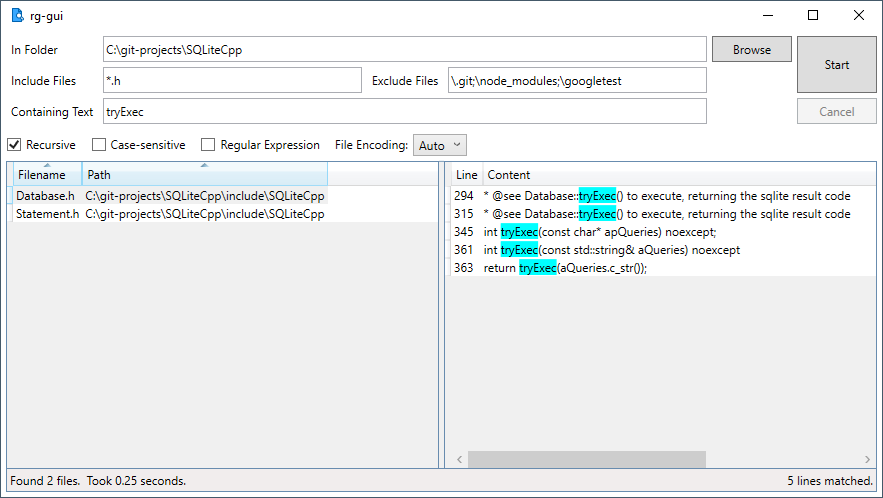
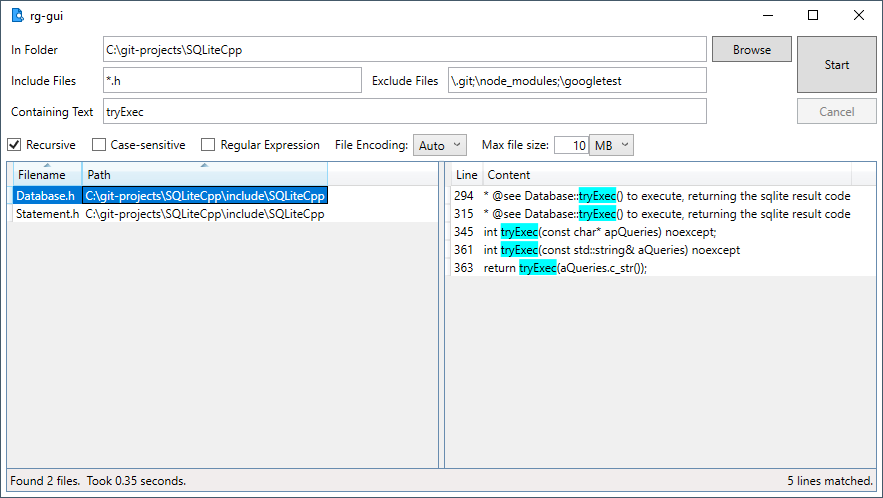
Allow max file size to be specified
Uses RipGrep's --max-filesize parameter to exclude files larger than
specified size.

Changed region(s): [[0.0, 0.3614, 0.3669, 0.4217], [0.5198, 0.9036, 0.8256, 0.9639], [0.5504, 0.2711, 0.7339, 0.3313]]

diff --git a/rg-gui/MainWindow.xaml b/rg-gui/MainWindow.xaml
@@ -51,6 +51,9 @@
                 <ColumnDefinition Width="Auto"/>
                 <ColumnDefinition Width="Auto"/>
                 <ColumnDefinition Width="Auto"/>
+                <ColumnDefinition Width="Auto"/>
+                <ColumnDefinition Width="40"/>
+                <ColumnDefinition Width="Auto"/>
             </Grid.ColumnDefinitions>
             <CheckBox Grid.Row="1" Grid.Column="0" Margin="0,0,0,5" x:Name="chkRecursive" Content="Recursive" VerticalContentAlignment="Center"/>
             <CheckBox Grid.Row="1" Grid.Column="1" Margin="15,0,0,5" x:Name="chkCaseSensitive" Content="Case-sensitive" VerticalContentAlignment="Center"/>
@@ -59,6 +62,15 @@
             <ComboBox Grid.Row="1" Grid.Column="4" Margin="5,0,0,5" x:Name="cmbEncoding" VerticalAlignment="Center">
                 <ComboBoxItem x:Name="Auto" Content="Auto"/>
                 <ComboBoxItem x:Name="GBK" Content="GBK"/>
+            </ComboBox>
+            <TextBlock Grid.Row="1" Grid.Column="5" Margin="15,-2,0,5" Text="Max file size:" VerticalAlignment="Center"/>
+            <TextBox Grid.Row="1" Grid.Column="6" Margin="5,0,0,5" x:Name="txtMaxFileSize" VerticalAlignment="Center" TextAlignment="Right" TextChanged="txtMaxFileSize_TextChanged"/>
+            <ComboBox Grid.Row="1" Grid.Column="7" Margin="0,0,0,5" x:Name="cmbFileSizeUnit" VerticalAlignment="Center" SelectionChanged="cmbFileSizeUnit_SelectionChanged">
+                <ComboBoxItem x:Name="None" Content="(none)"/>
+                <ComboBoxItem x:Name="Bytes" Content="bytes"/>
+                <ComboBoxItem x:Name="Kilobytes" Content="kB"/>
+                <ComboBoxItem x:Name="Megabytes" Content="MB"/>
+                <ComboBoxItem x:Name="Gigabytes" Content="GB"/>
             </ComboBox>
         </Grid>
 

diff --git a/rg-gui/MainWindow.xaml.cs b/rg-gui/MainWindow.xaml.cs
@@ -39,6 +39,9 @@ namespace rg_gui
 
         private const string DEFAULT_FILEENCODING = "Auto";
 
+        private const int DEFAULT_MAXFILESIZE = 0;
+        private const string DEFAULT_MAXFILESIZEUNIT = "None";
+
         private const int DEFAULT_MAXSEARCHTERMS = 10;
 
         private string m_currentInput = string.Empty;
@@ -114,6 +117,17 @@ namespace rg_gui
                 cmbEncoding.SelectedIndex = 0;
             }
 
+            txtMaxFileSize.Text = (int.TryParse(config.AppSettings.Settings["MaxFileSize"].Value, out var maxFileSize) ? maxFileSize : DEFAULT_MAXFILESIZE).ToString();
+            var maxFileSizeUnit = cmbFileSizeUnit.FindName(config.AppSettings.Settings["MaxFileSizeUnit"]?.Value ?? DEFAULT_MAXFILESIZEUNIT);
+            if (maxFileSizeUnit != null)
+            {
+                cmbFileSizeUnit.SelectedItem = maxFileSizeUnit;
+            }
+            else
+            {
+                cmbFileSizeUnit.SelectedIndex = 0;
+            }
+
             m_ripGrepWrapper = new RipGrepWrapper(config.AppSettings.Settings["RipGrepPath"]?.Value ?? throw new Exception("RipGrepPath not set."));
 
             m_maxSearchTerms = int.TryParse(config.AppSettings.Settings["MaxSearchTerms"]?.Value, out var maxSearchTerms) ? maxSearchTerms : DEFAULT_MAXSEARCHTERMS;
@@ -143,6 +157,8 @@ namespace rg_gui
             config.AppSettings.Settings["RegularExpression"].Value = (chkRegularExpression.IsChecked ?? bool.Parse(DEFAULT_REGULAREXPRESSION)) ? "true" : "false";
 
             config.AppSettings.Settings["FileEncoding"].Value = ((ComboBoxItem)cmbEncoding.SelectedItem).Name;
+            config.AppSettings.Settings["MaxFileSize"].Value = txtMaxFileSize.Text;
+            config.AppSettings.Settings["MaxFileSizeUnit"].Value = ((ComboBoxItem)cmbFileSizeUnit.SelectedItem).Name;
             config.Save();
 
             ConfigurationManager.RefreshSection("appSettings");
@@ -286,7 +302,9 @@ namespace rg_gui
                         IncludePatterns = txtIncludeFiles.Text,
                         ExcludePatterns = txtExcludeFiles.Text,
                         RegularExpression = chkRegularExpression.IsChecked ?? false,
-                        Encoding = (FileEncoding)cmbEncoding.SelectedIndex
+                        Encoding = (FileEncoding)cmbEncoding.SelectedIndex,
+                        MaxFileSize = int.Parse(txtMaxFileSize.Text),
+                        MaxFileSizeUnit = (MaxFileSizeUnit)cmbFileSizeUnit.SelectedIndex,
                     };
 
                     FileResultItems.Reset(Enumerable.Empty<FileSearchResult>());
@@ -374,6 +392,17 @@ namespace rg_gui
             {
                 m_folderSuggestionValues = Directory.GetDirectories(input);
             }
+        }
+
+        private void txtMaxFileSize_TextChanged(object sender, TextChangedEventArgs e)
+        {
+            var input = txtMaxFileSize.Text;
+            txtMaxFileSize.Text = new string(input.Where(c => char.IsDigit(c)).ToArray());
+        }
+
+        private void cmbFileSizeUnit_SelectionChanged(object sender, SelectionChangedEventArgs e)
+        {
+            txtMaxFileSize.IsEnabled = (cmbFileSizeUnit.SelectedIndex != 0);
         }
     }
 }

diff --git a/rg-gui/RipGrepWrapper.cs b/rg-gui/RipGrepWrapper.cs
@@ -20,6 +20,15 @@ namespace rg_gui
             GBK
         }
 
+        public enum MaxFileSizeUnit
+        {
+            None,
+            B,
+            K,
+            M,
+            G
+        }
+
         public class SearchParameters
         {
             public string StartPath { get; set; } = string.Empty;
@@ -39,6 +48,10 @@ namespace rg_gui
             public bool RegularExpression { get; set; } = true;
 
             public FileEncoding Encoding { get; set; } = FileEncoding.Auto;
+
+            public int MaxFileSize { get; set; }
+
+            public MaxFileSizeUnit MaxFileSizeUnit { get; set; } = MaxFileSizeUnit.None;
         }
 
         public class ResultLine
@@ -127,6 +140,11 @@ namespace rg_gui
             if (searchParameters.Encoding != FileEncoding.Auto)
             {
                 argsBuilder.Append($"-E {EncodingTypes[searchParameters.Encoding]} ");
+            }
+
+            if (searchParameters.MaxFileSizeUnit != MaxFileSizeUnit.None)
+            {
+                argsBuilder.Append($"--max-filesize {searchParameters.MaxFileSize}{(searchParameters.MaxFileSizeUnit != MaxFileSizeUnit.B ? searchParameters.MaxFileSizeUnit : string.Empty)} ");
             }
 
             // Signal no more flags will be set.
